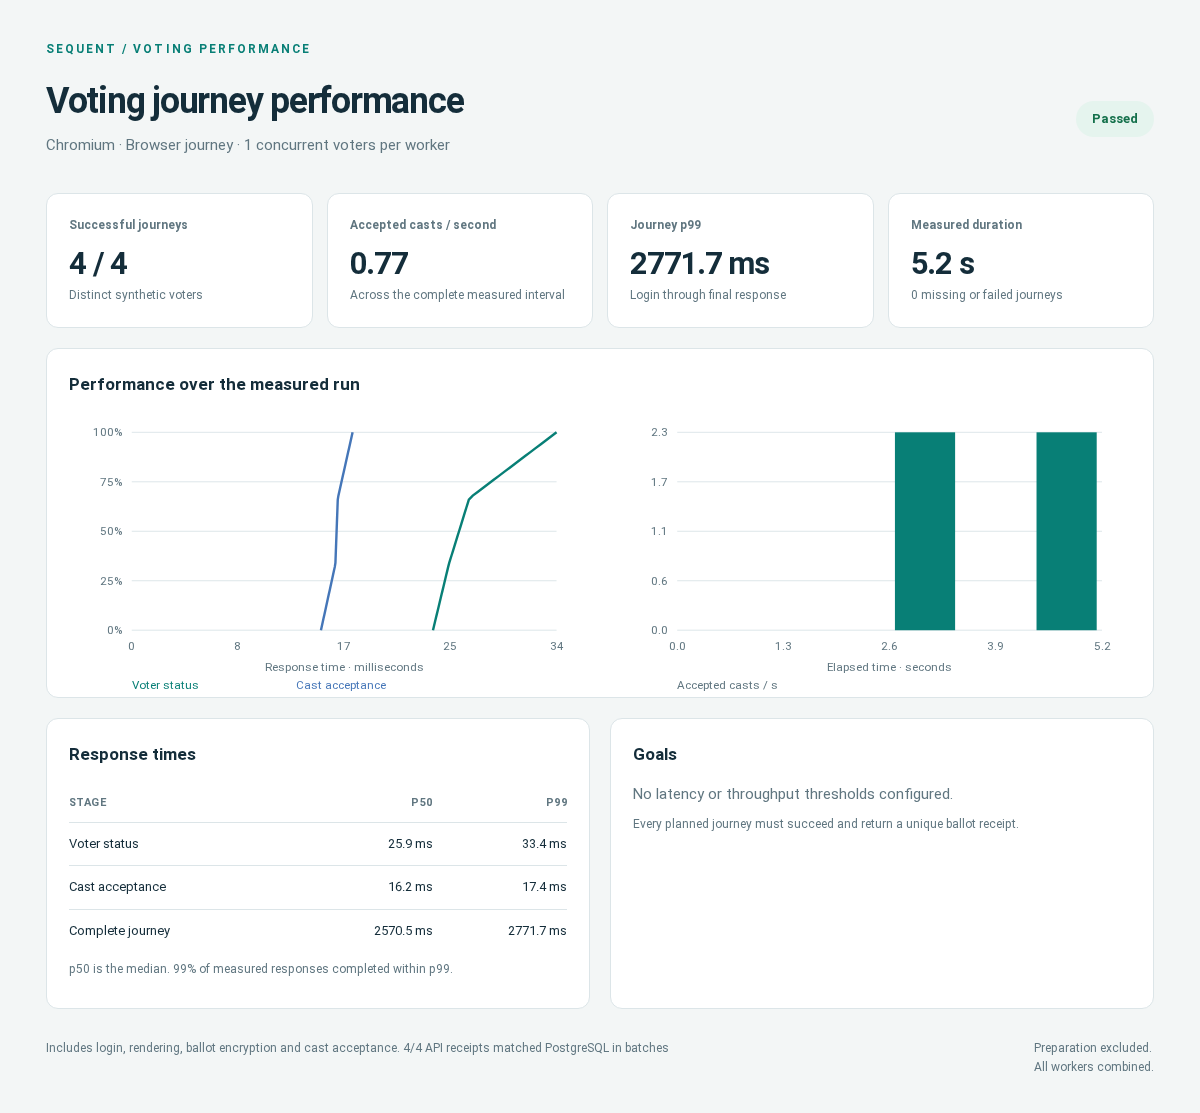
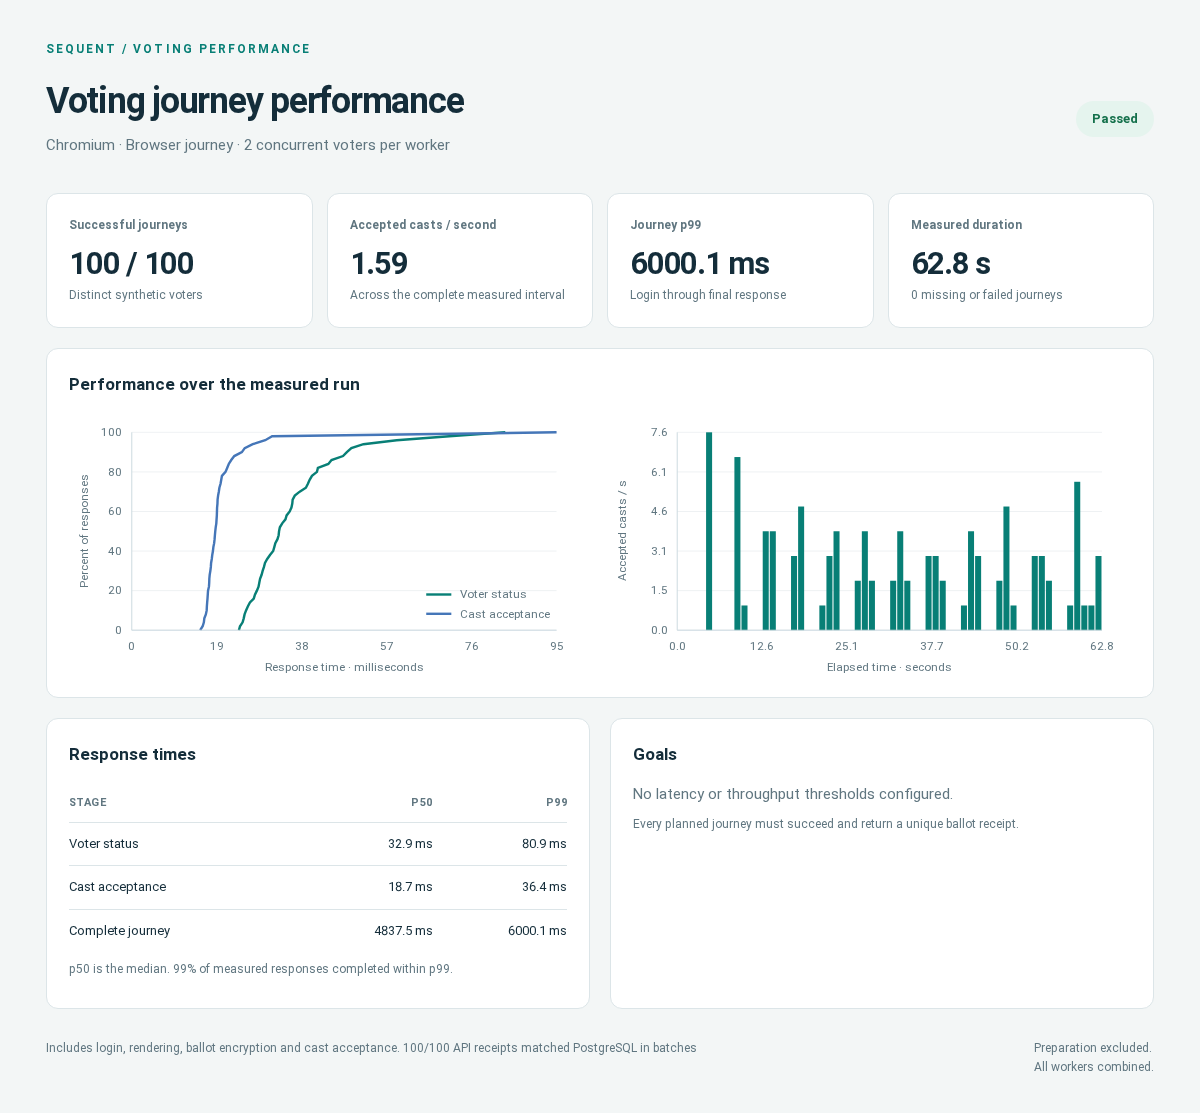
Document audited 100-voter runs and bounded engine examples

diff --git a/docs/docusaurus/docs/07-developers/05-voting-portal/voter-status-performance.md b/docs/docusaurus/docs/07-developers/05-voting-portal/voter-status-performance.md
@@ -76,10 +76,10 @@ Edit `voting-load.yaml` before preparation. All effective defaults are written b
 workload:
   engine: k6
   mode: vote
-  count: 1000000
+  count: 10000
   username_prefix: load-
   start: 0
-  shard_size: 10000
+  shard_size: 1000
   concurrency: 20
   password_env: LOAD_PASSWORD
 execution:
@@ -95,20 +95,22 @@ min_casts_per_second: 100
 workload:
   engine: chromium
   mode: vote
-  count: 1000000
+  count: 1000
   username_prefix: load-
   start: 0
-  shard_size: 10000
-  concurrency: 20
+  shard_size: 100
+  concurrency: 2
   password_env: LOAD_PASSWORD
 execution:
-  workers: 20
+  workers: 4
 goals:
   status_ms: {p50: 100, p99: 500}
   cast_ms: {p50: 100, p99: 500}
   journey_ms: {p50: 2000, p99: 5000}
-min_casts_per_second: 100
+min_casts_per_second: 1
 ```
+
+Start with 100 voters when checking a deployment. The examples above use 10,000 voters for k6 and 1,000 for Chromium; increase load only after reviewing the smaller run. Goals are workload targets, not promised capacity.
 
 A worker loads one shard at a time. Census generation computes one shared password hash and streams it into CSV; login still verifies every password. k6 ballots have fresh randomness and unique IDs even when every voter selects the same candidates. Preparation time is excluded from measured throughput.
 
@@ -282,7 +284,16 @@ Open `report.html` from the run directory. It is a self-contained document suita
 
 ![Example voting-load report captured from an actual local run](/img/voting-load-report.png)
 
-The image illustrates the report layout, not deployment capacity.
+### Local example: 100 voters per engine
+
+These full voting journeys ran sequentially on the same local devcontainer deployment on 8 September 2026. Each engine used four workers with two concurrent voters per worker and its own census range. All 200 unique API receipts matched persisted PostgreSQL ballots. The screenshot shows the Chromium run.
+
+| Engine | Successful voters | Workers × concurrency | Duration | Casts/s | Status p50 / p99 | Cast p50 / p99 | Journey p50 / p99 |
+| --- | --- | --- | --- | --- | --- | --- | --- |
+| k6 | 100/100 | 4 × 2 | 1.84 s | 54.29 | 24.0 / 47.1 ms | 25.0 / 232.9 ms | 129.0 / 340.1 ms |
+| Chromium | 100/100 | 4 × 2 | 62.80 s | 1.59 | 32.9 / 80.9 ms | 18.7 / 36.4 ms | 4837.5 / 6000.1 ms |
+
+Preparation is excluded. Chromium includes page rendering and browser encryption; k6 uses prepared encrypted ballots. These small local runs illustrate the report and verify the journey; they are not deployment capacity estimates. No latency or throughput goals were configured for these examples.
 
 ### Interpret the measurements
 
